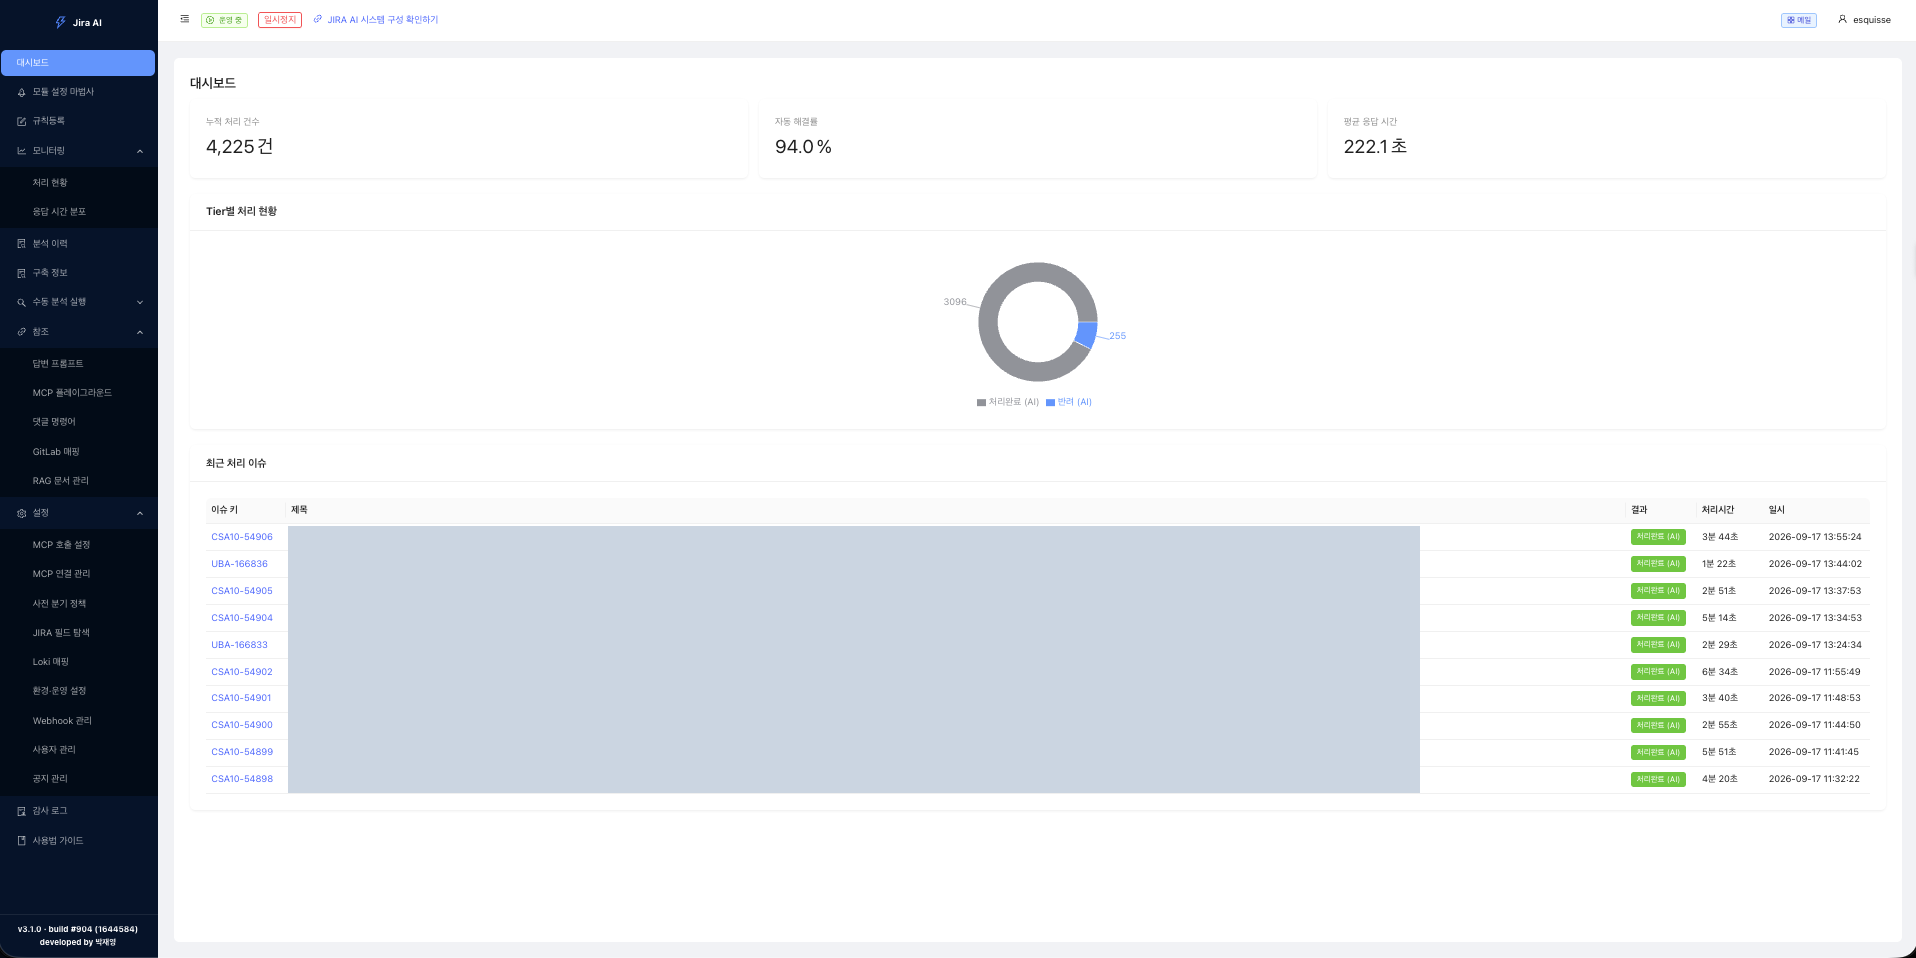
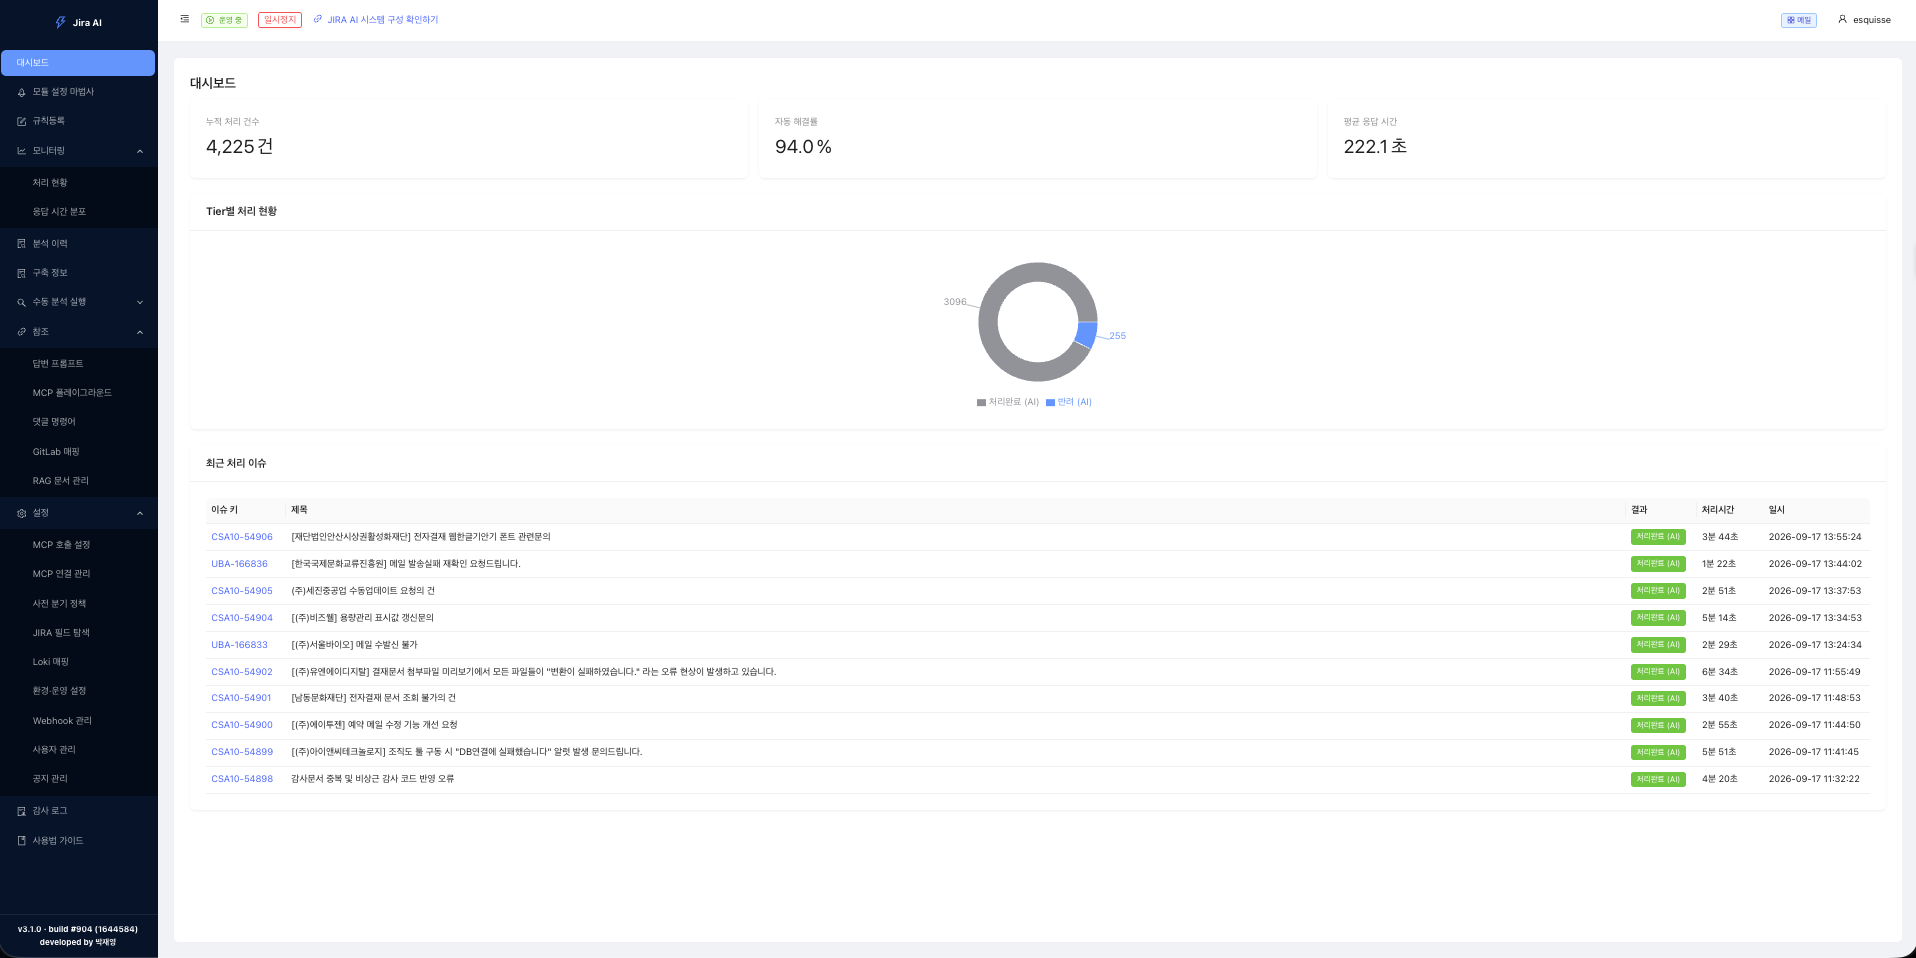
JIRA-AI 이미지를 원본으로 교체하고 3+4 레이아웃으로 정리
- 마스킹 제거, 원본 스크린샷 사용
- 윗줄 3장(대시보드·지연 실행 대기 큐·RAG 문서 관리)
- 아랫줄 4장(GitLab 매핑·AI 답변·개발자 브리핑·분석 근거 소스 경로)

Changed region(s): [[0.1232, 0.5449, 0.739, 0.8476]]

diff --git a/public/resume-v3.html b/public/resume-v3.html
@@ -485,8 +485,10 @@
                     <figure><div class="shot"><img src="/resume-v2/jiraai-1.png" alt="대시보드 — 누적 처리 건수·자동 해결률·평균 응답 시간과 Tier별 처리 현황" loading="lazy" onerror="this.parentElement.classList.add('missing');this.closest('figure').classList.add('img-missing')"><div class="ph"><strong>이미지 추가</strong><code>public/resume-v2/jiraai-1.png</code><span>대시보드 — 누적 처리 건수·자동 해결률·평균 응답 시간과 Tier별 처리 현황</span></div></div><figcaption>운영 대시보드</figcaption></figure>
                     <figure><div class="shot"><img src="/resume-v2/jiraai-2.png" alt="Webhook 관리 — 수신 이벤트의 지연 실행 대기 큐와 남은 시간" loading="lazy" onerror="this.parentElement.classList.add('missing');this.closest('figure').classList.add('img-missing')"><div class="ph"><strong>이미지 추가</strong><code>public/resume-v2/jiraai-2.png</code><span>Webhook 관리 — 수신 이벤트의 지연 실행 대기 큐와 남은 시간</span></div></div><figcaption>지연 실행 대기 큐</figcaption></figure>
                     <figure><div class="shot"><img src="/resume-v2/jiraai-3.png" alt="RAG 문서 관리 — 폴더 트리·문서 목록·미리보기" loading="lazy" onerror="this.parentElement.classList.add('missing');this.closest('figure').classList.add('img-missing')"><div class="ph"><strong>이미지 추가</strong><code>public/resume-v2/jiraai-3.png</code><span>RAG 문서 관리 — 폴더 트리·문서 목록·미리보기</span></div></div><figcaption>RAG 문서 관리</figcaption></figure>
+                </div>
+                <div class="project-screenshots" aria-label="JIRA-AI 분석 흐름 이미지">
                     <figure><div class="shot"><img src="/resume-v2/jiraai-4.png" alt="GitLab 매핑 — 모듈별 저장소 연결과 코드 인덱스 상태" loading="lazy" onerror="this.parentElement.classList.add('missing');this.closest('figure').classList.add('img-missing')"><div class="ph"><strong>이미지 추가</strong><code>public/resume-v2/jiraai-4.png</code><span>GitLab 매핑 — 모듈별 저장소 연결과 코드 인덱스 상태</span></div></div><figcaption>GitLab 코드 인덱스 매핑</figcaption></figure>
-                    <figure><div class="shot"><img src="/resume-v2/jiraai-5.png" alt="Jira 댓글에 게시된 AI 1차 분석 답변과 담당자 교정 안내" loading="lazy" onerror="this.parentElement.classList.add('missing');this.closest('figure').classList.add('img-missing')"><div class="ph"><strong>이미지 추가</strong><code>public/resume-v2/jiraai-5.png</code><span>Jira 댓글에 게시된 AI 1차 분석 답변과 담당자 교정 안내</span></div></div><figcaption>이슈에 게시된 AI 답변</figcaption></figure>
+                    <figure><div class="shot"><img src="/resume-v2/jiraai-5.png" alt="Jira 댓글에 게시된 AI 1차 분석 답변" loading="lazy" onerror="this.parentElement.classList.add('missing');this.closest('figure').classList.add('img-missing')"><div class="ph"><strong>이미지 추가</strong><code>public/resume-v2/jiraai-5.png</code><span>Jira 댓글에 게시된 AI 1차 분석 답변</span></div></div><figcaption>이슈에 게시된 AI 답변</figcaption></figure>
                     <figure><div class="shot"><img src="/resume-v2/jiraai-6.png" alt="개발자 분석 브리핑 — 근본 원인과 변경 전·후 수정 제안" loading="lazy" onerror="this.parentElement.classList.add('missing');this.closest('figure').classList.add('img-missing')"><div class="ph"><strong>이미지 추가</strong><code>public/resume-v2/jiraai-6.png</code><span>개발자 분석 브리핑 — 근본 원인과 변경 전·후 수정 제안</span></div></div><figcaption>개발자 분석 브리핑</figcaption></figure>
                     <figure><div class="shot"><img src="/resume-v2/jiraai-7.png" alt="분석에 사용한 소스 파일 경로 트리" loading="lazy" onerror="this.parentElement.classList.add('missing');this.closest('figure').classList.add('img-missing')"><div class="ph"><strong>이미지 추가</strong><code>public/resume-v2/jiraai-7.png</code><span>분석에 사용한 소스 파일 경로 트리</span></div></div><figcaption>분석 근거 소스 경로</figcaption></figure>
                 </div>

diff --git a/public/portfolio-v3.html b/public/portfolio-v3.html
@@ -342,8 +342,10 @@ timeline
             <figure><div class="shot"><img src="/resume-v2/jiraai-1.png" alt="대시보드 — 누적 처리 건수·자동 해결률·평균 응답 시간과 Tier별 처리 현황" loading="lazy" onerror="this.parentElement.classList.add('missing');this.closest('figure').classList.add('img-missing')"><div class="ph"><strong>이미지 추가</strong><code>public/resume-v2/jiraai-1.png</code><span>대시보드 — 누적 처리 건수·자동 해결률·평균 응답 시간과 Tier별 처리 현황</span></div></div><figcaption>운영 대시보드</figcaption></figure>
             <figure><div class="shot"><img src="/resume-v2/jiraai-2.png" alt="Webhook 관리 — 수신 이벤트의 지연 실행 대기 큐와 남은 시간" loading="lazy" onerror="this.parentElement.classList.add('missing');this.closest('figure').classList.add('img-missing')"><div class="ph"><strong>이미지 추가</strong><code>public/resume-v2/jiraai-2.png</code><span>Webhook 관리 — 수신 이벤트의 지연 실행 대기 큐와 남은 시간</span></div></div><figcaption>지연 실행 대기 큐</figcaption></figure>
             <figure><div class="shot"><img src="/resume-v2/jiraai-3.png" alt="RAG 문서 관리 — 폴더 트리·문서 목록·미리보기" loading="lazy" onerror="this.parentElement.classList.add('missing');this.closest('figure').classList.add('img-missing')"><div class="ph"><strong>이미지 추가</strong><code>public/resume-v2/jiraai-3.png</code><span>RAG 문서 관리 — 폴더 트리·문서 목록·미리보기</span></div></div><figcaption>RAG 문서 관리</figcaption></figure>
+        </div>
+        <div class="project-screenshots" aria-label="JIRA-AI 분석 흐름 이미지">
             <figure><div class="shot"><img src="/resume-v2/jiraai-4.png" alt="GitLab 매핑 — 모듈별 저장소 연결과 코드 인덱스 상태" loading="lazy" onerror="this.parentElement.classList.add('missing');this.closest('figure').classList.add('img-missing')"><div class="ph"><strong>이미지 추가</strong><code>public/resume-v2/jiraai-4.png</code><span>GitLab 매핑 — 모듈별 저장소 연결과 코드 인덱스 상태</span></div></div><figcaption>GitLab 코드 인덱스 매핑</figcaption></figure>
-            <figure><div class="shot"><img src="/resume-v2/jiraai-5.png" alt="Jira 댓글에 게시된 AI 1차 분석 답변과 담당자 교정 안내" loading="lazy" onerror="this.parentElement.classList.add('missing');this.closest('figure').classList.add('img-missing')"><div class="ph"><strong>이미지 추가</strong><code>public/resume-v2/jiraai-5.png</code><span>Jira 댓글에 게시된 AI 1차 분석 답변과 담당자 교정 안내</span></div></div><figcaption>이슈에 게시된 AI 답변</figcaption></figure>
+            <figure><div class="shot"><img src="/resume-v2/jiraai-5.png" alt="Jira 댓글에 게시된 AI 1차 분석 답변" loading="lazy" onerror="this.parentElement.classList.add('missing');this.closest('figure').classList.add('img-missing')"><div class="ph"><strong>이미지 추가</strong><code>public/resume-v2/jiraai-5.png</code><span>Jira 댓글에 게시된 AI 1차 분석 답변</span></div></div><figcaption>이슈에 게시된 AI 답변</figcaption></figure>
             <figure><div class="shot"><img src="/resume-v2/jiraai-6.png" alt="개발자 분석 브리핑 — 근본 원인과 변경 전·후 수정 제안" loading="lazy" onerror="this.parentElement.classList.add('missing');this.closest('figure').classList.add('img-missing')"><div class="ph"><strong>이미지 추가</strong><code>public/resume-v2/jiraai-6.png</code><span>개발자 분석 브리핑 — 근본 원인과 변경 전·후 수정 제안</span></div></div><figcaption>개발자 분석 브리핑</figcaption></figure>
             <figure><div class="shot"><img src="/resume-v2/jiraai-7.png" alt="분석에 사용한 소스 파일 경로 트리" loading="lazy" onerror="this.parentElement.classList.add('missing');this.closest('figure').classList.add('img-missing')"><div class="ph"><strong>이미지 추가</strong><code>public/resume-v2/jiraai-7.png</code><span>분석에 사용한 소스 파일 경로 트리</span></div></div><figcaption>분석 근거 소스 경로</figcaption></figure>
         </div>
